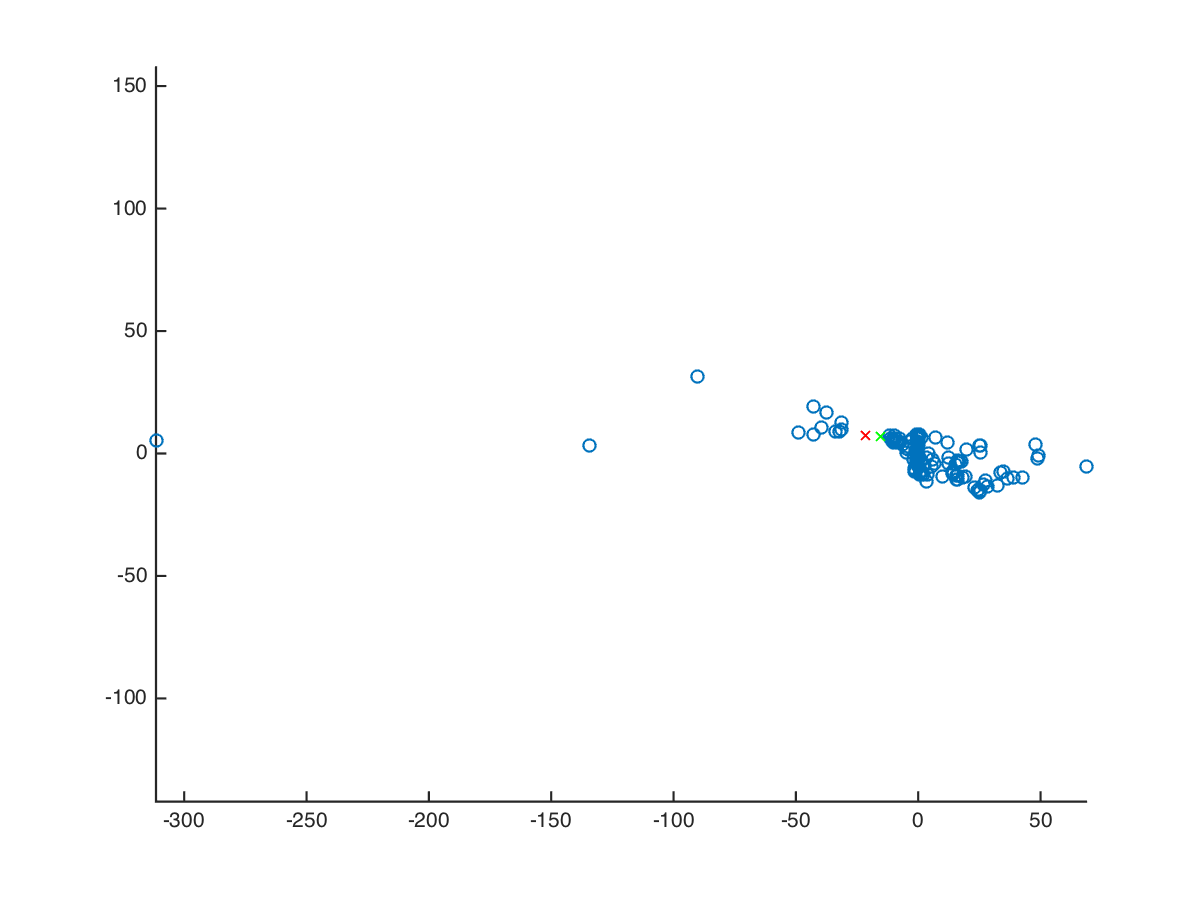
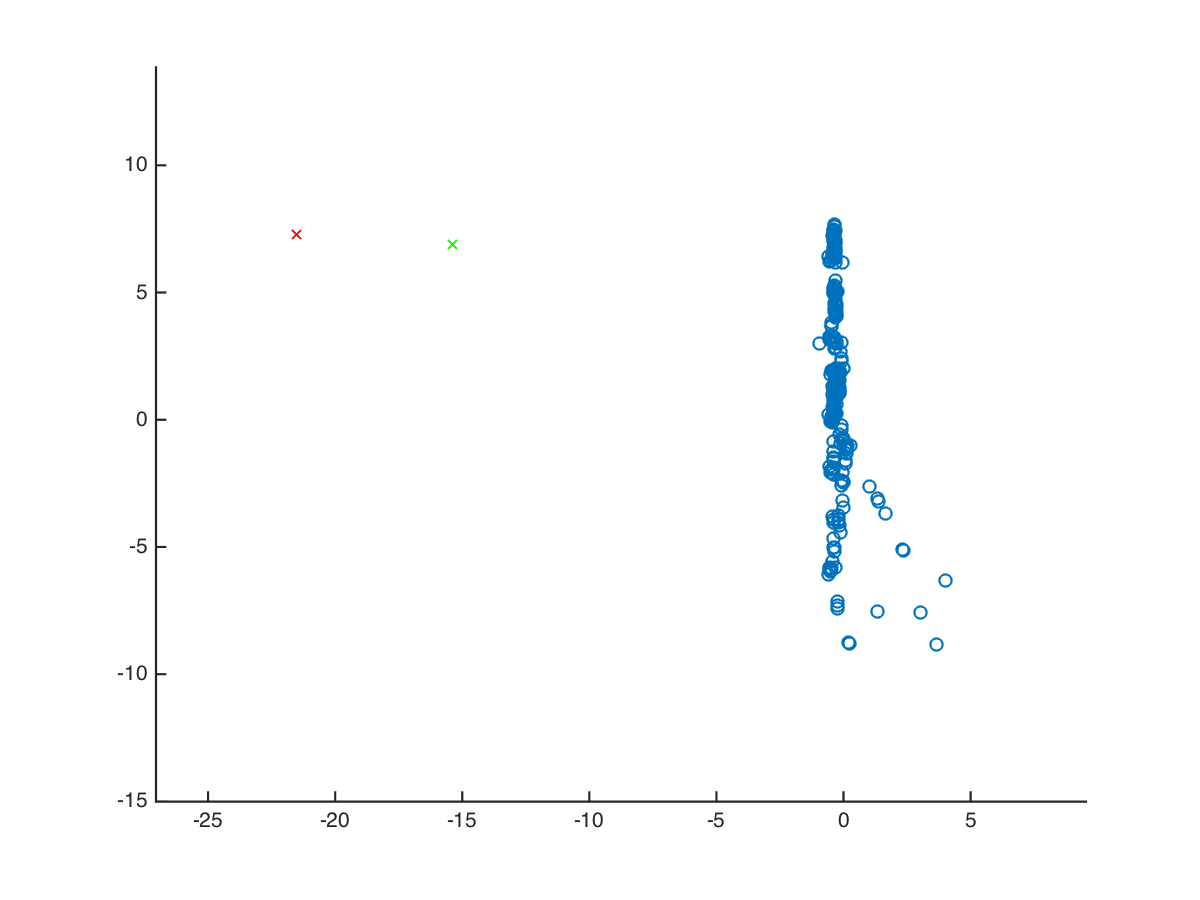
all tagged imaged done

diff --git a/hw3/display_residual.m b/hw3/display_residual.m
@@ -11,4 +11,20 @@ line([matches(:,3) closest_pt(:,1)]', [matches(:,4) closest_pt(:,2)]', 'Color', 
 line([pt1(:,1) pt2(:,1)]', [pt1(:,2) pt2(:,2)]', 'Color', 'g');
 
 saveas(c, [savedir image_name '_result.png'],'png');
+
+
+% compute and display residual
+avg_residual = 0;
+
+for i = 1:size(closest_pt, 1)
+    right_coordinate = matches(i, 3:4);
+    left_transormed = closest_pt(i, 1:2);
+
+    error_distance = dist2(left_transormed, right_coordinate);
+    avg_residual = avg_residual + error_distance;
+end
+ 
+avg_residual = avg_residual / size(closest_pt, 1);
+display(avg_residual)
+
 end

diff --git a/hw3/run_part2.m b/hw3/run_part2.m
@@ -8,8 +8,8 @@ if ~exist(savedir, 'dir')
     mkdir(savedir)
 end
 
-is_normalized = 1;
-is_putative_match = 1; % set to 0 to use ground truth matches
+is_normalized = 0;
+is_putative_match = 0; % set to 0 to use ground truth matches
 
 datadir = './assignment3_part2_data/';
 

diff --git a/hw3/count_inliner_part2.m b/hw3/count_inliner_part2.m
@@ -1,5 +1,5 @@
 function [cur_inliner, inliner_pairs, avg_residual] = count_inliner_part2(top_pairs, F)
-    threshold = 4; % TODO
+    threshold =4; % set
     
     cur_inliner = 0;
     avg_residual = 0;
